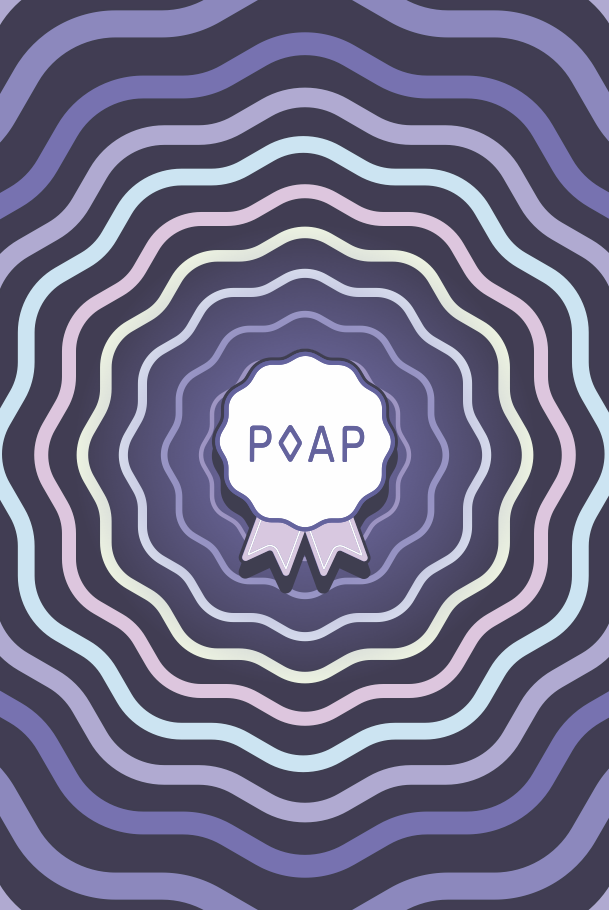
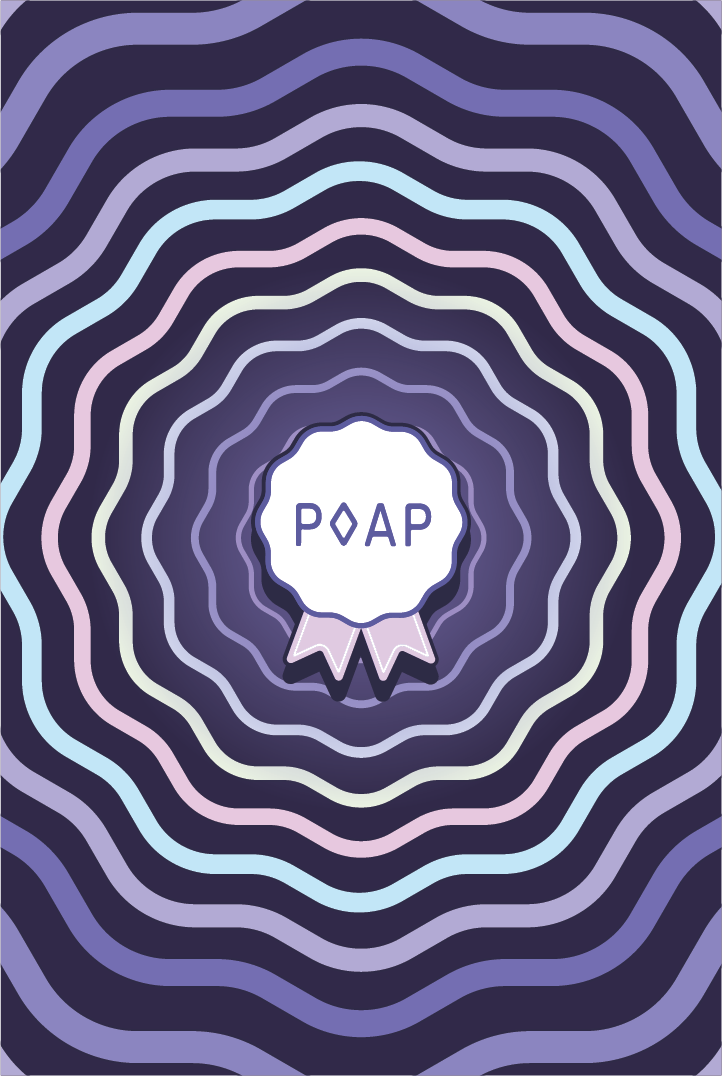
updated card files and counter font

diff --git a/Minting card centered with counter RGB.py b/Minting card centered with counter RGB.py
@@ -95,7 +95,7 @@ def merge_images_inside(image_outer_path, qr_codes_folder, output_folder, base_f
 
         # --- Add Counter --- # <-- RE-ENABLED BLOCK
         counter_text = str(i)
-        counter_color = "#da2c3d"
+        counter_color = "#000000"
         dpi = 300
         y_offset_mm = 5
         
